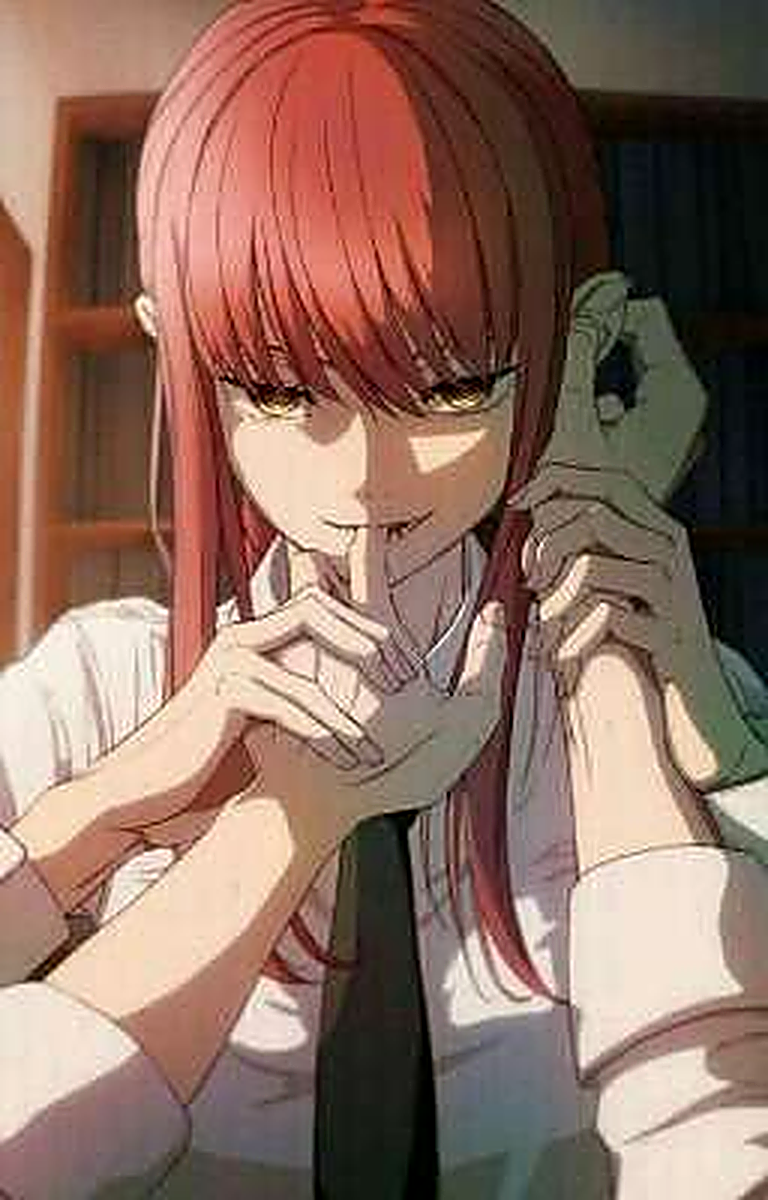
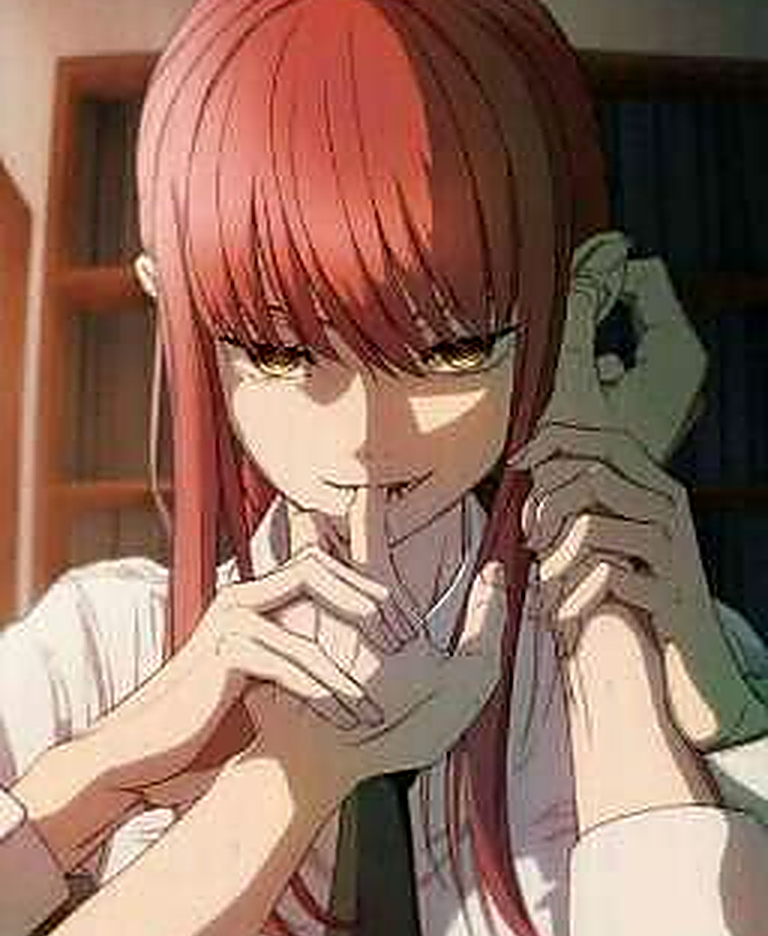
Make character image fill grid box

diff --git a/README.md b/README.md
@@ -23,16 +23,16 @@ Hi 👋, I am **0xdolus**, an enthusiastic and ambitious full stack developer. I
 
 ## 🔥 Github Stats
 
-<table>
+<table width="100%">
 <tr>
-<td width="62%" valign="top">
+<td width="58%" valign="top">
 
 <img src="https://github-readme-stats.vercel.app/api?username=0xdolus&show_icons=true&theme=transparent&title_color=ff4d6d&icon_color=ff4d6d&text_color=c9d1d9&bg_color=0d1117&border_color=ff4d6d&hide_border=false" width="100%" alt="GitHub stats">
 
 <img src="https://streak-stats.demolab.com/?user=0xdolus&theme=transparent&ring=ff4d6d&fire=ff4d6d&currStreakLabel=ff4d6d&currStreakNum=c9d1d9&sideNums=c9d1d9&sideLabels=c9d1d9&dates=8b949e&border=ff4d6d&background=0d1117" width="100%" alt="GitHub streak">
 
 </td>
-<td width="38%" align="center" valign="middle">
+<td width="42%" align="center" valign="top">
 
 <img src="assets/character.png" width="100%" alt="Character">
 
